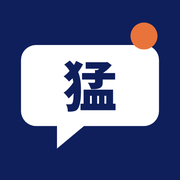
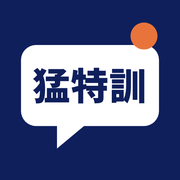
PLUS v1.7: アイコンの吹き出しの文字を「猛特訓」に
Claude-Session: https://claude.ai/code/session_01XRUQDWC8E763pG5p9TKxFV

Changed region(s): [[0.1667, 0.3333, 0.8056, 0.6389]]

diff --git a/index.html b/index.html
@@ -6,9 +6,9 @@
 <meta name="theme-color" content="#0f1f5c">
 <meta name="robots" content="noindex,nofollow">
 <title>英作文 猛特訓 PLUS</title>
-<link rel="apple-touch-icon" href="apple-touch-icon.png">
-<link rel="icon" type="image/png" sizes="192x192" href="icon-192.png">
-<link rel="icon" type="image/png" sizes="48x48" href="favicon.png">
+<link rel="apple-touch-icon" href="apple-touch-icon.png?v=2">
+<link rel="icon" type="image/png" sizes="192x192" href="icon-192.png?v=2">
+<link rel="icon" type="image/png" sizes="48x48" href="favicon.png?v=2">
 <meta name="apple-mobile-web-app-title" content="猛特訓PLUS">
 <link rel="preconnect" href="https://fonts.googleapis.com">
 <link rel="preconnect" href="https://fonts.gstatic.com" crossorigin>
@@ -394,7 +394,7 @@ details.guide[open]{padding-bottom:12px}
 (function(){
 'use strict';
 
-var VER='1.6';   // 有料版（PLUS）の版。無料版 next.html v2.15 をもとにしている
+var VER='1.7';   // 有料版（PLUS）の版。無料版 next.html v2.15 をもとにしている
 /* AIに渡す分割プロンプト（prompts/fixed.txt と prompts/free.txt から組み込み） */
 var PROMPTS={fixed:"あなたは、英作文・スピーキング教材の作成者です。\n私が渡す「日本語の文」と「英文」のペアを、積み上げ式の練習問題に分割してください。\n英文は、1文字も変えてはいけません。切って並べるだけです。\n\n■ 練習の仕組み\n日本語の意味のかたまりごとに短い部品を出題し、少しずつつなげて、最後に全文を英語で言えるようにします。\n\n■ 出力の形式\n・コードブロック1つだけを出力します。ブロックの外には、説明・前置き・あとがきを一切書きません。\n・1行が1問です。形は「日本語｜English」。区切りは全角の縦棒「｜」を1つだけ使います。日本語側にも英語側にも「｜」は入れません。\n・1行目は「# セット名」。入力の内容を表す短い日本語の題にします。\n・入力の1文ごとに、その積み上げの最後の行（全文の行）だけ、行頭に「★」を付けます。\n\n■ ルール\n1. 英文は書き換えない。単語、語順、大文字・小文字、句読点（, ; . など）、ハイフン、かっこも、原文のまま。文法や表現に疑問があっても直しません。\n2. 分ける単位は「日本語の意味のかたまり」です（主語のまとまり、動作、修飾する節、時・場所・理由・条件を表す句など）。英語の語順で並べます。日本語の語順と違うときは、その英語のかたまりが表す意味を、自然な日本語で書きます。\n3. 各行の英語は、全文の英語の「連続した一部分」にします。途中を飛ばしたり、順序を入れ替えたりしません（例外は、ルール6の主語の補いだけ）。\n4. 英語のかたまりは、だいたい2〜8語です。冠詞・前置詞・接続詞だけで始まる、または終わる切り方はしません。句読点は、そのかたまりの後ろに付いているものを、そのまま残します。\n5. 積み上げの並べ方：部品を左から順に出し、隣り合う部品を「つなげる行」で合体させ、最後に全文にします。\n　例（A, B, C, D は部品）：A → B → A+B → C → D → C+D → 全文\n　・つなげる行の英語は、隣り合う部品（またはつなげた行）を、そのままつなげたものです。\n　・つなげる行の日本語は、日本語の部品を自然につなげた文です（助詞・語尾は整えてよい）。\n　・最後の行は、入力の日本語の文と英文を、そのまま使います（★付き）。\n6. 主語の補い（部品の行だけ。つなげる行と全文の行には、絶対に補わない）：\n　動詞・助動詞から始まって主語がない部品は、先頭に主語（必要なら be動詞・助動詞）を1〜3語補い、単独で言える文にします。and / but で始まるときは、and / but を外して補います。\n　　例：is going to treat us → It is going to treat us\n　　例：and invited us to dinner → They invited us to dinner\n　補ったときは、日本語の先頭にも「(それは)」「(彼らは)」のように、かっこで主語を添えます。\n　補わないもの：so that / because / if / when / to不定詞 / 前置詞句で始まる部品、名詞句、命令文、動名詞・分詞（-ing, -ed）から始まる句。\n7. 英語に主語や目的語があるのに、その日本語の部品には出てこないとき（日本語で省略される「私は」など）は、日本語にかっこで「(私は)」のように添えます。\n8. 行数の目安（1文あたり、つなげる行と全文の行を含む）：英語10語以下→3〜5行／11〜20語→5〜8行／21語以上→7〜12行。\n9. 迷ったら、小さく自然なかたまりを選びます。\n\n■ 出力の前の確認（頭の中で行い、結果は書かない）\n□ 全行の英語が、全文の連続した一部分か（ルール6の補いを除く）\n□ つなげる行が、部品の単純なつなぎか\n□ 各行の日本語が、その行の英語の意味と合っているか\n□ 全文の行の英文が、入力の英文と1文字も違わないか\n□ 各文の最後の行に★が付いているか\n\n■ 例1\n（入力）\n経済的に苦しかったので、私達は一流ホテルで結婚披露宴を行う計画を断念せざるを得なかった。｜Our difficult economic situation made us give up the plan to have our wedding reception at a first-class hotel.\n\n（出力）\n```\n# 例文：計画の断念\n私達の経済的に苦しい状況が｜Our difficult economic situation\n(それが)私達に計画を断念させた｜It made us give up the plan\n経済的に苦しかったので、私達は計画を断念せざるを得なかった｜Our difficult economic situation made us give up the plan\n結婚披露宴を行う｜to have our wedding reception\n一流ホテルで｜at a first-class hotel.\n一流ホテルで結婚披露宴を行う｜to have our wedding reception at a first-class hotel.\n★経済的に苦しかったので、私達は一流ホテルで結婚披露宴を行う計画を断念せざるを得なかった。｜Our difficult economic situation made us give up the plan to have our wedding reception at a first-class hotel.\n```\n\n■ 例2\n（入力）\n少年はつまずいて転んだ拍子にうさぎ風船を手放し、それが満月の夜空に上って行くのを見つめた。｜The boy let the rabbit-shaped balloon go and watched it rise into the night sky lit by the full moon when he stumbled and fell.\n\n（出力）\n```\n# 例文：風船\n少年はうさぎ風船を手放し｜The boy let the rabbit-shaped balloon go\n(彼は)それが上って行くのを見つめた｜He watched it rise\n少年はうさぎ風船を手放し、それが上って行くのを見つめた｜The boy let the rabbit-shaped balloon go and watched it rise\n夜空へ｜into the night sky\n満月に照らされた｜lit by the full moon\n満月に照らされた夜空へ｜into the night sky lit by the full moon\n少年はうさぎ風船を手放し、それが満月の夜空に上って行くのを見つめた｜The boy let the rabbit-shaped balloon go and watched it rise into the night sky lit by the full moon\nつまずいて転んだ拍子に｜when he stumbled and fell.\n★少年はつまずいて転んだ拍子にうさぎ風船を手放し、それが満月の夜空に上って行くのを見つめた。｜The boy let the rabbit-shaped balloon go and watched it rise into the night sky lit by the full moon when he stumbled and fell.\n```\n\n■ 入力\n（ここから下を、あなたの文に書き換えてください。1行に1文、「日本語｜English」の形で書きます。複数の文を入れてもかまいません。）\n日本語の文。｜English sentence.\n",free:"あなたは、英作文・スピーキング教材の作成者です。\n私が渡す「日本語の文」を、正確な英文に訳し、その英文を積み上げ式の練習問題に分割してください。\n英文は、最初に1つ決めたら、そのあと1文字も変えてはいけません。\n\n■ 練習の仕組み\n日本語の意味のかたまりごとに短い部品を出題し、少しずつつなげて、最後に全文を英語で言えるようにします。\n\n■ 手順\n1. 日本語の文ごとに、英訳を1つ決める。（下の「英訳のルール」）\n2. その英文を、下の「分割のルール」で、積み上げ式の問題にする。\n3. コードブロック1つだけを出力する。\n\n■ 英訳のルール\n・日本語の意味を、落とさず、足さず、正確に訳します。\n・文法的に正しい、自然で標準的な英語にします。\n・特に指定がなければ、中学〜高校レベルの一般的な語彙と文型を使います。難しい語や、めずらしいイディオムは避けます。\n・日本語の1文は、原則として英語の1文に訳します（日本語の「。」の数を変えない）。\n・英訳が複数考えられるときは、最も標準的なものを1つだけ選びます。\n・関係詞節、分詞句、when / if / because などの節、to不定詞、前置詞句のように、かたまりに切りやすい構造を使ってかまいません。ただし、不自然にしてはいけません。\n・省略される主語（日本語の「私は」「彼らは」など）は、英語では自然に補います。\n\n■ 出力の形式\n・コードブロック1つだけを出力します。ブロックの外には、説明・前置き・あとがきを一切書きません。\n・1行が1問です。形は「日本語｜English」。区切りは全角の縦棒「｜」を1つだけ使います。日本語側にも英語側にも「｜」は入れません。\n・1行目は「# セット名」。入力の内容を表す短い日本語の題にします。\n・入力の1文ごとに、その積み上げの最後の行（全文の行）だけ、行頭に「★」を付けます。\n・全文の行の日本語は、入力の日本語を、そのまま使います。\n\n■ 分割のルール\n1. 決めた英文は、書き換えない。単語、語順、大文字・小文字、句読点（, ; . など）、ハイフン、かっこも、そのままです。\n2. 分ける単位は「日本語の意味のかたまり」です（主語のまとまり、動作、修飾する節、時・場所・理由・条件を表す句など）。英語の語順で並べます。日本語の語順と違うときは、その英語のかたまりが表す意味を、自然な日本語で書きます。\n3. 各行の英語は、全文の英語の「連続した一部分」にします。途中を飛ばしたり、順序を入れ替えたりしません（例外は、ルール6の主語の補いだけ）。\n4. 英語のかたまりは、だいたい2〜8語です。冠詞・前置詞・接続詞だけで始まる、または終わる切り方はしません。句読点は、そのかたまりの後ろに付いているものを、そのまま残します。\n5. 積み上げの並べ方：部品を左から順に出し、隣り合う部品を「つなげる行」で合体させ、最後に全文にします。\n　例（A, B, C, D は部品）：A → B → A+B → C → D → C+D → 全文\n　・つなげる行の英語は、隣り合う部品（またはつなげた行）を、そのままつなげたものです。\n　・つなげる行の日本語は、日本語の部品を自然につなげた文です（助詞・語尾は整えてよい）。\n6. 主語の補い（部品の行だけ。つなげる行と全文の行には、絶対に補わない）：\n　動詞・助動詞から始まって主語がない部品は、先頭に主語（必要なら be動詞・助動詞）を1〜3語補い、単独で言える文にします。and / but で始まるときは、and / but を外して補います。\n　　例：is going to treat us → It is going to treat us\n　　例：and invited us to dinner → They invited us to dinner\n　補ったときは、日本語の先頭にも「(それは)」「(彼らは)」のように、かっこで主語を添えます。\n　補わないもの：so that / because / if / when / to不定詞 / 前置詞句で始まる部品、名詞句、命令文、動名詞・分詞（-ing, -ed）から始まる句。\n7. 英語に主語や目的語があるのに、その日本語の部品には出てこないとき（日本語で省略される「私は」など）は、日本語にかっこで「(私は)」のように添えます。\n8. 行数の目安（1文あたり、つなげる行と全文の行を含む）：英語10語以下→3〜5行／11〜20語→5〜8行／21語以上→7〜12行。\n9. 迷ったら、小さく自然なかたまりを選びます。\n\n■ 出力の前の確認（頭の中で行い、結果は書かない）\n□ 英訳が、日本語の意味と合っていて、文法的に正しいか\n□ 全行の英語が、全文の連続した一部分か（ルール6の補いを除く）\n□ つなげる行が、部品の単純なつなぎか\n□ 各行の日本語が、その行の英語の意味と合っているか\n□ 全文の行の日本語が、入力の日本語と同じか\n□ 各文の最後の行に★が付いているか\n\n■ 例1\n（入力）\n経済的に苦しかったので、私達は一流ホテルで結婚披露宴を行う計画を断念せざるを得なかった。\n\n（出力）\n```\n# 例文：計画の断念\n私達の経済的に苦しい状況が｜Our difficult economic situation\n(それが)私達に計画を断念させた｜It made us give up the plan\n経済的に苦しかったので、私達は計画を断念せざるを得なかった｜Our difficult economic situation made us give up the plan\n結婚披露宴を行う｜to have our wedding reception\n一流ホテルで｜at a first-class hotel.\n一流ホテルで結婚披露宴を行う｜to have our wedding reception at a first-class hotel.\n★経済的に苦しかったので、私達は一流ホテルで結婚披露宴を行う計画を断念せざるを得なかった。｜Our difficult economic situation made us give up the plan to have our wedding reception at a first-class hotel.\n```\n\n■ 例2\n（入力）\nその工場を訪れ、自動車が造られているのを見て、私達はその能率の良さに感銘を受けた。\n\n（出力）\n```\n# 例文：工場見学\nその工場を訪れ｜Visiting the factory\n自動車が造られているのを見て｜seeing cars made,\nその工場を訪れ、自動車が造られているのを見て｜Visiting the factory and seeing cars made,\n私達は感銘を受けた｜we were impressed\nその能率の良さに｜by its efficiency.\nその能率の良さに感銘を受けた｜we were impressed by its efficiency.\n★その工場を訪れ、自動車が造られているのを見て、私達はその能率の良さに感銘を受けた。｜Visiting the factory and seeing cars made, we were impressed by its efficiency.\n```\n\n■ 希望（任意。不要なら、この3行は消してください）\nレベル：中学〜高校\n文体：ふつう（会話でも書き言葉でも使える）\n使いたい表現：（あれば書く）\n\n■ 入力\n（ここから下を、あなたの日本語の文に書き換えてください。1行に1文です。複数の文を入れてもかまいません。）\n日本語の文。\n"};
 
